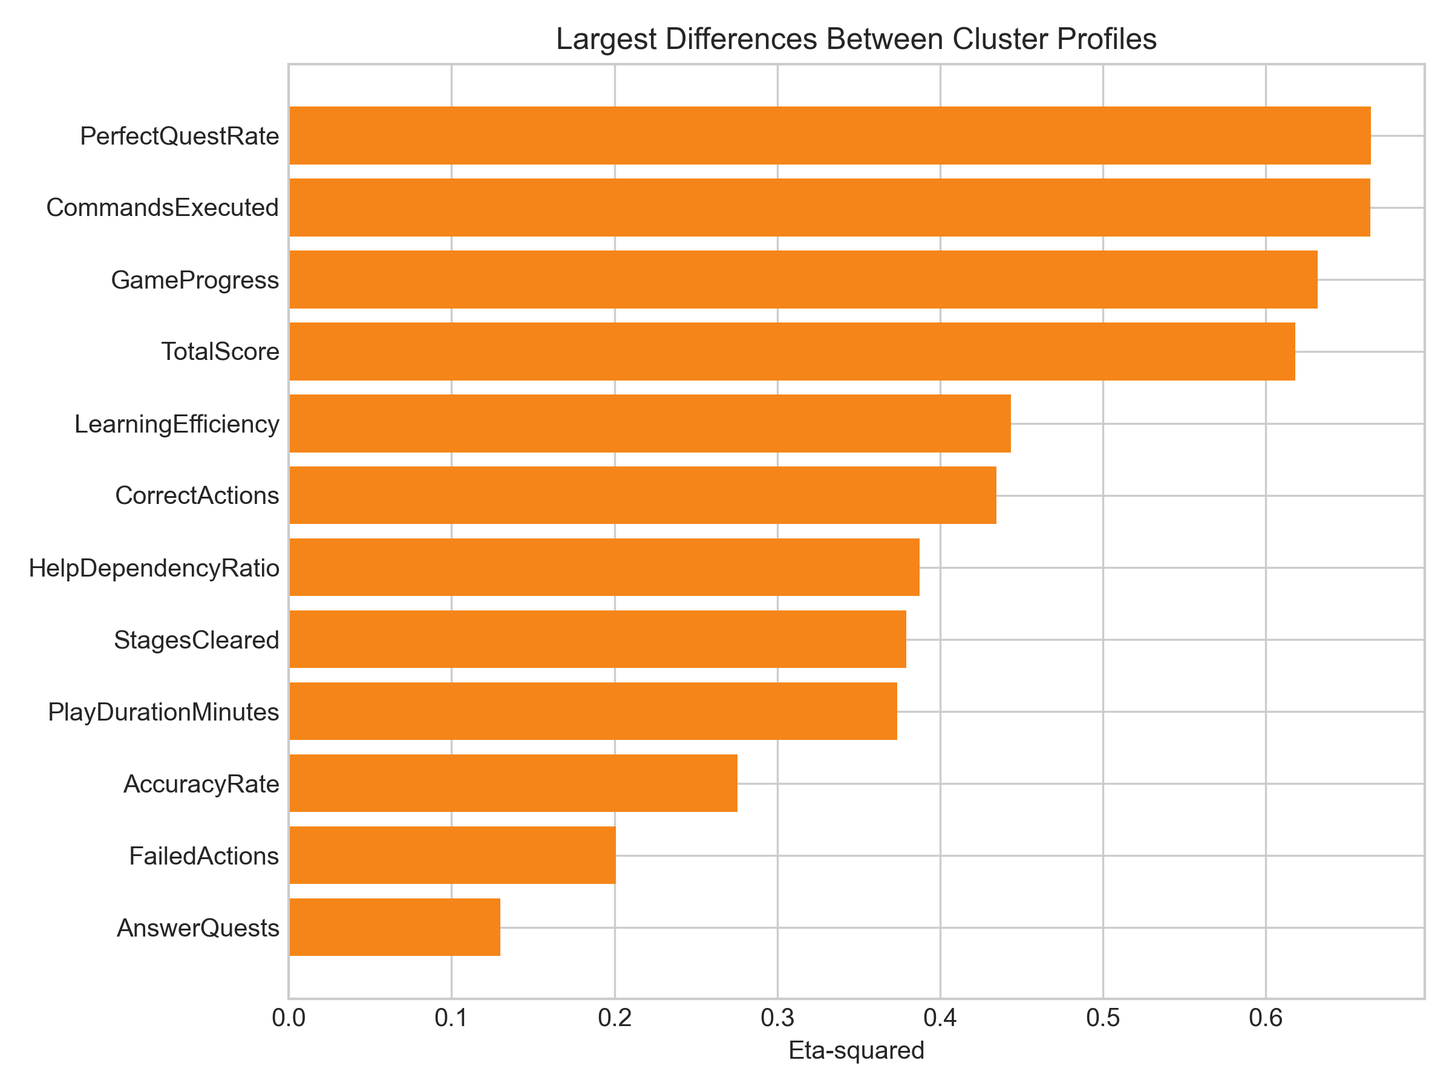
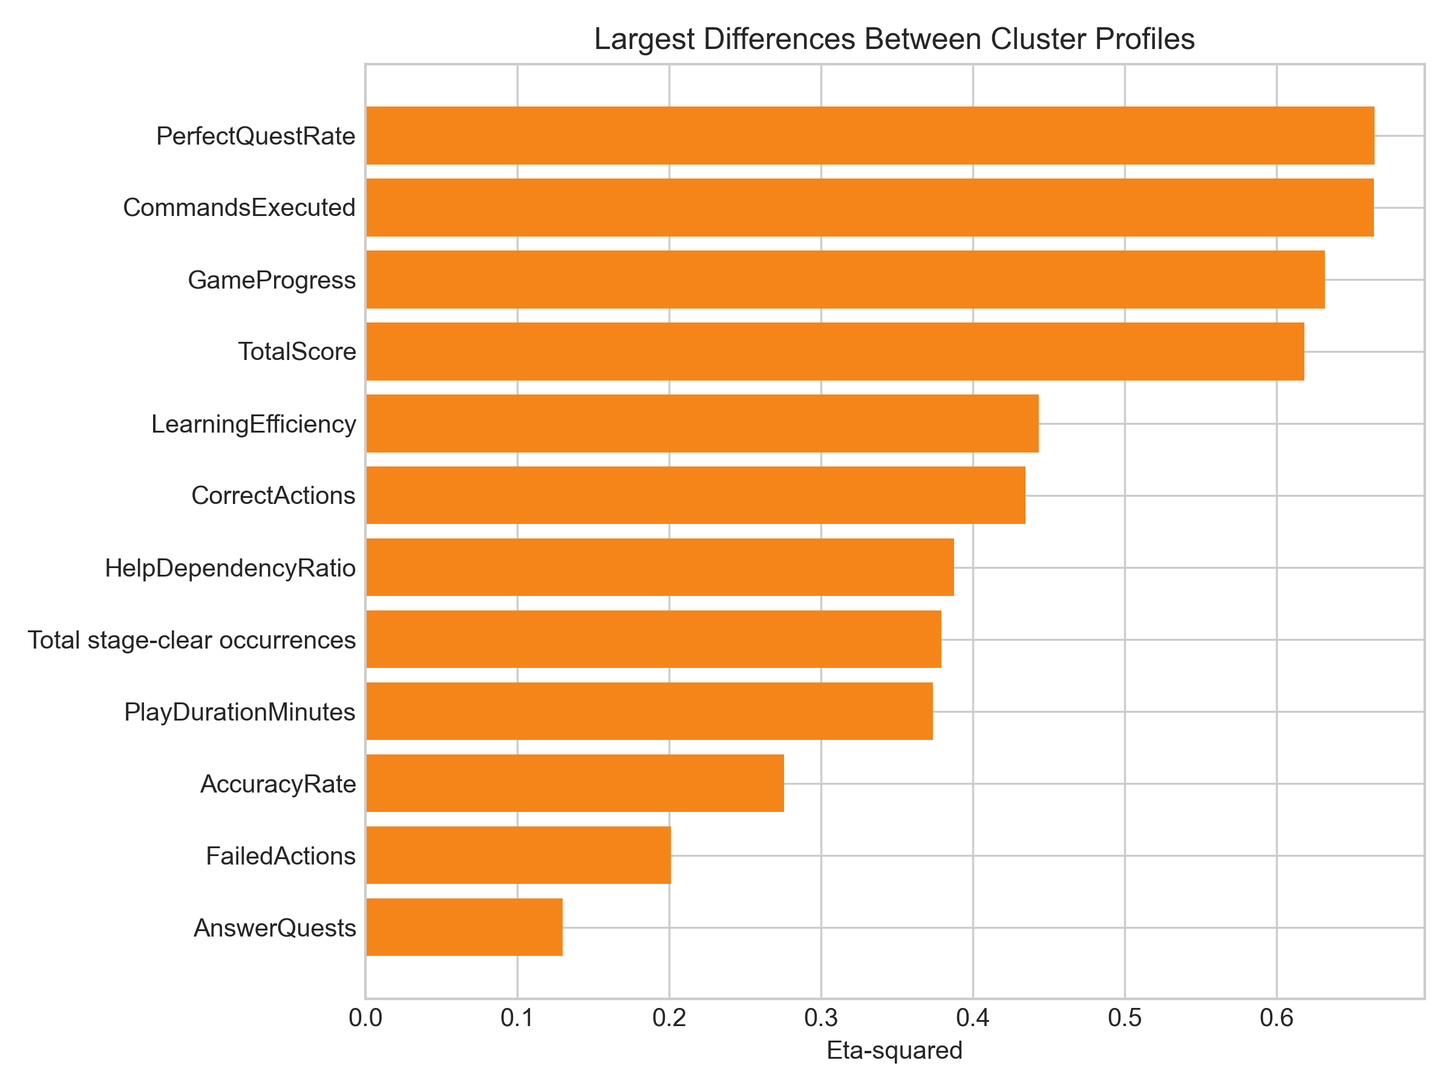
update result of ANCOVA

diff --git a/Extract-Data-Code/cluster_profile_analysis.py b/Extract-Data-Code/cluster_profile_analysis.py
@@ -41,7 +41,7 @@ FEATURES = [
     "HelpDependencyRatio",
 ]
 OUTCOMES = [
-    "StagesCleared", "GameProgress", "TotalScore",
+    "StageClearOccurrences", "GameProgress", "TotalScore",
 ]
 
 FEATURE_DEFINITIONS = {
@@ -58,7 +58,7 @@ FEATURE_DEFINITIONS = {
     "HelpDependencyRatio": "Hint-assisted plus answer-assisted quests divided by completed quests.",
 }
 OUTCOME_DEFINITIONS = {
-    "StagesCleared": "Saved cumulative stage-clear count, including repeat clears; not unique stages.",
+    "StageClearOccurrences": "Total recorded stage-clear occurrences, including repeated clears across saved tutorial/practice entries; not distinct study stages or completion out of 16.",
     "GameProgress": "Cumulative game-progress percentage; used only for profiling.",
     "TotalScore": "Cumulative stage score; used only for profiling.",
 }
@@ -90,7 +90,7 @@ def build_python_feature_table(source):
         "HelpDependencyRatio": safe_ratio(
             number("event_hint_used_quests") + number("event_answer_used_quests"), completed
         ),
-        "StagesCleared": number("record_totalTimesStageClear"),
+        "StageClearOccurrences": number("record_totalTimesStageClear"),
         "GameProgress": number("record_totalGameProgress"),
         "TotalScore": total_score,
     })
@@ -269,10 +269,10 @@ def create_profile_audit(df, feature_names, imputed, labels):
                 rows.append({'ID': row['ID'], 'Cluster': labels[position], 'feature': feature,
                              'issue': 'missing_observation', 'observed_value': row[feature],
                              'clustering_imputed_value': filled.loc[index, feature] if feature in feature_names else np.nan})
-        if row['CommandsExecuted'] == 0 and row['StagesCleared'] > 0:
-            rows.append({'ID': row['ID'], 'Cluster': labels[position], 'feature': 'StagesCleared',
+        if row['CommandsExecuted'] == 0 and row['StageClearOccurrences'] > 0:
+            rows.append({'ID': row['ID'], 'Cluster': labels[position], 'feature': 'StageClearOccurrences',
                          'issue': 'stage_clears_with_zero_saved_commands_review_only',
-                         'observed_value': row['StagesCleared'], 'clustering_imputed_value': np.nan})
+                         'observed_value': row['StageClearOccurrences'], 'clustering_imputed_value': np.nan})
     return pd.DataFrame(rows, columns=['ID', 'Cluster', 'feature', 'issue', 'observed_value', 'clustering_imputed_value'])
 
 
@@ -325,7 +325,8 @@ def create_visualizations(data_dir, validity, selected_k, scaled, labels,
 
     top = comparisons.nlargest(12, "eta_squared").sort_values("eta_squared")
     fig, ax = plt.subplots(figsize=(8, 6))
-    ax.barh(top["feature"], top["eta_squared"], color="#F58518")
+    display_names = top["feature"].replace({"StageClearOccurrences": "Total stage-clear occurrences"})
+    ax.barh(display_names, top["eta_squared"], color="#F58518")
     ax.set(xlabel="Eta-squared", title="Largest Differences Between Cluster Profiles")
     fig.tight_layout(); fig.savefig(data_dir / "figure_cluster_group_effects.png", dpi=300); plt.close(fig)
 

diff --git a/Extract-Data-Code/test_cluster_profile_analysis.py b/Extract-Data-Code/test_cluster_profile_analysis.py
@@ -16,7 +16,7 @@ import cluster_profile_analysis as analysis
 class ClusterAnalysisTests(unittest.TestCase):
     def test_profiles_and_tests_use_observed_values(self):
         frame = pd.DataFrame({'CommandsExecuted': [0., 2., np.nan, 4., 8., 12.],
-                              'StagesCleared': [1., 2., np.nan, 3., 4., 5.],
+                              'StageClearOccurrences': [1., 2., np.nan, 3., 4., 5.],
                               'GameProgress': [1., 2., 3., 4., 5., 6.],
                               'TotalScore': [10., 20., 30., 40., 50., 60.]})
         before = frame.copy(deep=True)
@@ -38,25 +38,25 @@ class ClusterAnalysisTests(unittest.TestCase):
         self.assertEqual(result.n_observed, 5)
         self.assertEqual(result.n_missing, 1)
         self.assertEqual(result.cluster_1_n, 2)
-        self.assertTrue(np.isfinite(tests.set_index('feature').loc['StagesCleared', 'kruskal_p']))
+        self.assertTrue(np.isfinite(tests.set_index('feature').loc['StageClearOccurrences', 'kruskal_p']))
         self.assertAlmostEqual(result.eta_squared, 58.8 / 92.8)
         pd.testing.assert_frame_equal(frame, before)
 
     def test_unavailable_tests_have_explicit_status(self):
         frame = pd.DataFrame({'CommandsExecuted': [np.nan, 1., 2., 3.],
-                              'StagesCleared': [1.] * 4, 'GameProgress': [1.] * 4,
+                              'StageClearOccurrences': [1.] * 4, 'GameProgress': [1.] * 4,
                               'TotalScore': [np.nan] * 4})
         _, _, tests = analysis.profile_clusters(frame, ['CommandsExecuted'],
                                                 np.zeros((4, 1)), np.array([1, 1, 2, 2]))
         tests = tests.set_index('feature')
         self.assertEqual(tests.loc['CommandsExecuted', 'test_status'], 'insufficient_observed_values')
-        self.assertEqual(tests.loc['StagesCleared', 'test_status'], 'constant_indicator')
+        self.assertEqual(tests.loc['StageClearOccurrences', 'test_status'], 'constant_indicator')
         self.assertTrue(tests.anova_p.isna().all())
         self.assertTrue(tests.kruskal_p.isna().all())
 
     def test_welch_marks_zero_variance_group(self):
         frame = pd.DataFrame({'CommandsExecuted': [0., 0., 2., 3.],
-                              'StagesCleared': [1.] * 4, 'GameProgress': [1.] * 4,
+                              'StageClearOccurrences': [1.] * 4, 'GameProgress': [1.] * 4,
                               'TotalScore': [1.] * 4})
         _, _, tests = analysis.profile_clusters(frame, ['CommandsExecuted'],
                                                 np.zeros((4, 1)), np.array([1, 1, 2, 2]))

diff --git a/MD-Document/BEHAVIORAL_FEATURE_EXPLANATION.md b/MD-Document/BEHAVIORAL_FEATURE_EXPLANATION.md
@@ -1,0 +1,118 @@
+# Behavioral Features: Definitions and Interpretation
+
+Updated: 2026-09-23. This reference describes the current extraction and analysis code, including the distinction between Git commands, correct game actions, and stage clears.
+
+## 1. Where the measurements come from
+
+The clustering input is [analysis_per_user_combined.csv](../Analysis-Log-Results/analysis_per_user_combined.csv), with one row per username. Its fields combine two types of measurement:
+
+- **Saved counters (`record_...`):** cumulative values from player-save records. Where both versions contain a player, the extraction uses the Version-2 save rather than adding cumulative snapshots.
+- **Event counts (`event_...`):** counts of matching rows in the combined event logs for that player.
+
+Saved counters and event logs are different sources. Their coverage and definitions should be checked before treating them as interchangeable. The analysis does not require their counts to match.
+
+Implementation references: [per-user extraction](../Extract-Data-Code/extract_per_user_data.py) and [feature construction and analysis](../Extract-Data-Code/cluster_profile_analysis.py).
+
+## 2. Features used to form clusters
+
+All 11 features below enter clustering when they are nonconstant and have available values.
+
+| Code name | Suggested reporting label | Source or calculation | Unit and interpretation |
+|---|---|---|---|
+| `CommandsExecuted` | Saved Git-command count | `record_totalCommandExecuteTimes` | Commands recorded by the saved counter. This is not a count of successful commands and is not calculated by counting `Execute Git Command` events. |
+| `CorrectActions` | Correct game-action events | `event_correct_actions`: number of rows with `eventName == 'Correct Action'` | Events, including tutorial and practice interface actions. Not successful Git commands. |
+| `FailedActions` | Failed game-action events | `event_failed_actions`: number of rows with `eventName == 'Failed Action'` | Events recorded under this label. The analysis does not establish that each event is a failed Git command. |
+| `HintQuests` | Hint-labelled event count | `event_hint_used_quests`: event details containing `Hint` | Matching event rows. Intended to represent hint-associated quest activity; see the extraction qualification below. |
+| `AnswerQuests` | Answer-labelled event count | `event_answer_used_quests`: event details containing `Answer` | Matching event rows. Intended to represent answer-associated quest activity; see the extraction qualification below. |
+| `PlayDurationMinutes` | Saved play duration | `record_totalPlayTime / 60` | Minutes derived from the saved duration. It is not reconstructed from event timestamps, and this analysis does not independently verify idle-time exclusion. |
+| `LeaderboardInteractions` | Global leaderboard-check events | `event_leaderboard_checks`: number of rows with `eventName == 'Check GlobalLeaderBoard'` | Repeated checks count separately. This is not the number of distinct leaderboards or a measure of competitive motivation. |
+| `LearningEfficiency` | Score per recorded play minute | `record_totalStageScore / PlayDurationMinutes` | Score units per minute. A performance-rate proxy, not a direct measurement of learning gain; short recorded durations can produce high values. |
+| `AccuracyRate` | Recorded game-action success proportion | `CorrectActions / (CorrectActions + FailedActions)` | Proportion; multiply by 100 for a percentage. Describes the two logged action categories, not Git-command accuracy. |
+| `PerfectQuestRate` | Perfect-labelled events per quest completion | `event_perfect_quests / event_quests_completed` | Ratio intended to describe perfect quest completion. Its numerator uses the detail-matching rule below. |
+| `HelpDependencyRatio` | Help-labelled events per quest completion | `(HintQuests + AnswerQuests) / event_quests_completed` | Ratio intended to describe help-associated quest activity. It does not establish a user's psychological dependence on help. |
+
+### Qualification for quest-related indicators
+
+The current extractor counts event details containing `Perfect`, `Hint`, or `Answer`. It does **not** additionally restrict these numerator counts to `eventName == 'Complete Quest'`, deduplicate quest IDs, or count distinct quests. The denominator `event_quests_completed` does count rows with `eventName == 'Complete Quest'`.
+
+Consequently, labels such as “hint-assisted quests” or “perfect quest completion rate” require confirmation that those detail strings identify the intended completion events in the logging system. Matching event counts should not automatically be described as unique quest counts. This document records the implemented definitions; it does not change the extraction rules.
+
+## 3. What counts as a correct action?
+
+The inclusion rule is the exact event name `Correct Action`. The analysis does not infer correctness by parsing Git-command output. Examples present in the logs include:
+
+| Logged `eventDetail` | Plain-language description |
+|---|---|
+| `<File/FileFunctionSelection>-<Continue>` | File/function selection recorded as a correct action |
+| `<FileContentWindow/RenameButtonSelection>-<Continue>` | Rename-button selection |
+| `<FileContentWindow/DeleteButtonSelection>-<Continue>` | Delete-button selection |
+| `<FileContentWindow/ModifyButtonSelection>-<Continue>` | Modify-button selection |
+| `<FileContentWindow/AddButtonSelection>-<Continue>` | Add-button selection |
+
+These details occur in tutorial and practice scenes. They are examples from the available logs, not a restriction on which `Correct Action` events the code counts.
+
+**A correct interface action can occur without a Git command.** For example, user `110122073` has six correct-action events in the Game Introduction tutorial, a logged stage completion, and zero saved Git commands. The six actions comprise two file/function selections, two rename selections, one delete selection, and one modify selection.
+
+It is therefore inappropriate to interpret `CorrectActions / CommandsExecuted` as a command-success rate.
+
+## 4. Outcomes used to describe the clusters
+
+| Code name | Suggested reporting label | Source | Interpretation |
+|---|---|---|---|
+| `StageClearOccurrences` | Total recorded stage-clear occurrences | `record_totalTimesStageClear` | Total clear occurrences, including repeat clears. Not distinct stages completed or a completion score out of 16. |
+| `GameProgress` | Saved game-progress percentage | `record_totalGameProgress` | The saved progress value, reported as a percentage by the pipeline. The analysis does not reconstruct the game's progress formula. |
+| `TotalScore` | Saved total stage score | `record_totalStageScore` | Cumulative saved stage score. The analysis does not reconstruct the game's scoring rules. |
+
+These three columns are used for profiling rather than directly included in the clustering feature list. However, `TotalScore` also supplies the numerator of `LearningEfficiency`, so score is not independent of cluster construction.
+
+For manuscript wording, a table with valid n, mean, SD, and median, and the distinction from completion of the 16 study stages, see [paper-ready stage reporting](ANALYSIS_RESULTS_GUIDE.md#paper-ready-reporting-of-stage-completion). The former output name `StagesCleared` has been replaced with `StageClearOccurrences` to make the counting unit explicit.
+
+For `NewPlayer` and `clear`, the saved clear count is 38 each, matching the sum of their extracted per-stage `stageClearTimes`. This supports the extracted count but does not establish whether either account is an eligible study participant. Eligibility must be confirmed from study records rather than inferred from the account name.
+
+## 5. Worked example: Cluster 2
+
+The current Cluster 2 contains 32 users. Its corrected descriptive statistics use observed values:
+
+| Indicator | Observed total | Users with observed values | Missing users | Mean |
+|---|---:|---:|---:|---:|
+| Saved Git commands | 4 | 31 | 1 | 0.1290 |
+| Correct game-action events | 174 | 31 | 1 | 5.6129 |
+| Saved stage clears | 110 | 31 | 1 | 3.5484 |
+
+The users missing a value are not necessarily the same across indicators. In this cluster, `test player` lacks the saved command and stage-clear totals, whereas `Xue` lacks the correct-action count.
+
+All 174 observed correct-action events in this cluster occur in the Game Introduction tutorial:
+
+| Action detail | Events |
+|---|---:|
+| File/function selection | 60 |
+| Rename selection | 58 |
+| Delete selection | 28 |
+| Modify selection | 28 |
+| **Total** | **174** |
+
+The relatively high stage-clear mean is influenced by `NewPlayer` and `clear`, which together contribute 76 of the 110 clear occurrences. The cluster's stage-clear median is 1. Report the distribution and account-review limitations alongside the mean.
+
+Suggested reporting text:
+
+> Cluster 2 comprised 32 users. Among users with available values for each indicator (n=31), mean saved Git-command count was 0.13, mean correct game-action count was 5.61, and mean saved stage-clear count was 3.55. Correct actions in this cluster were tutorial interface events; they were not successful Git commands. Stage-clear counts included repeat completions.
+
+## 6. Missing values and statistical interpretation
+
+- A recorded **zero** is retained as zero. An unavailable value is **missing**, not automatically zero.
+- Ratios with missing or zero denominators are missing.
+- **For clustering:** missing features are median-imputed, non-rate features are log-transformed, and features are standardized.
+- **For descriptive profiles and tests:** only observed values are used, separately for each indicator. Mean, median, standard deviation, and test sample size exclude missing values. The profile table provides total cluster membership, observed counts, and missing counts.
+- **For standardized profiles:** values describe the imputed and transformed representation used to construct clusters, rather than raw observed means.
+
+The former Cluster 2 means of 1.94 commands and 5.77 correct actions included substituted values. They are superseded by the observed means above. Imputation remains part of clustering, not descriptive reporting.
+
+ANOVA, Welch ANOVA, and Kruskal-Wallis compare the **same indicator across clusters**. They do not test whether commands, correct actions, and stage clears have the same numerical value within a cluster. Comparisons of clustering inputs are exploratory because those indicators also helped define the groups. Details on variance checks, unavailable tests, and sample counts are in the [methods guide](PYTHON_ANALYSIS_RESEARCH_GUIDE.md).
+
+## 7. Files to use
+
+- [Observed cluster profiles](../Analysis-Log-Results/analysis_cluster_profiles.csv): means, medians, standard deviations, observed counts, and missing counts.
+- [Group comparisons](../Analysis-Log-Results/analysis_cluster_group_comparisons.csv): observed sample sizes, statistical results, and diagnostic flags.
+- [Profile audit](../Analysis-Log-Results/analysis_cluster_profile_audit.csv): missing observations, clustering-only substitutions, and source-review flags.
+- [Column dictionary](COLUMN_DICTIONARY.md): definitions of output columns.
+- [Current results](ANALYSIS_RESULTS_GUIDE.md): selected K and cluster sizes.

diff --git a/MD-Document/ANALYSIS_RESULTS_GUIDE.md b/MD-Document/ANALYSIS_RESULTS_GUIDE.md
@@ -33,6 +33,32 @@ Both scores agree, so no compromise or tie-break is needed for this dataset. The
 | 2 | 32 |
 | 3 | 15 |
 
+## Paper-ready reporting of stage completion
+
+Use **Total recorded stage-clear occurrences** as the table label for `StageClearOccurrences`. This outcome is the saved cumulative counter `record_totalTimesStageClear`; it includes repeated clears. It is not the number of distinct study stages completed and is not a completion score out of 16.
+
+| Cluster | Cluster membership | Observed n | Missing n | Mean (SD), clear occurrences | Median |
+|---|---:|---:|---:|---:|---:|
+| 1 | 57 | 57 | 0 | 16.23 (9.20) | 16 |
+| 2 | 32 | 31 | 1 | 3.55 (9.23) | 1 |
+| 3 | 15 | 15 | 0 | 1.87 (1.68) | 1 |
+
+**Table note:** Values represent cumulative recorded clear occurrences, including repeated completions. The counter is not restricted by the number of distinct stages. Means and standard deviations use available observations only; SD denotes standard deviation. Cluster 1's mean is 925 clear occurrences / 57 participants = 16.2281, rounded to 16.23.
+
+**Suggested Methods text**
+
+> Total recorded stage-clear occurrences were obtained from each participant's cumulative player-save counter. This measure counts repeated clears and was treated as a measure of completion activity, rather than the number of distinct stages completed. Descriptive statistics used observed values, with valid sample sizes reported for each cluster.
+
+**Suggested Results text**
+
+> Mean total recorded stage-clear occurrences were 16.23 (SD = 9.20; n = 57) in Cluster 1, 3.55 (SD = 9.23; n = 31) in Cluster 2, and 1.87 (SD = 1.68; n = 15) in Cluster 3. These values include repeated stage completions and should not be interpreted as the number of distinct stages completed out of the 16 study stages.
+
+### Distinct-stage completion is a separate, pending measure
+
+The user identifies 16 study stages, while the exports contain 17 named topics (including Game Introduction), each with Tutorial and Practice entries. To report **Distinct study stages completed (0-16)**, first confirm the eligible stage list and whether completion requires Tutorial, Practice, either mode, or both. Then count each eligible stage once per participant using those rules. Do not substitute the existing count of completed saved stage entries, cap the cumulative counter at 16, or divide it by 16 to obtain a completion percentage.
+
+The distinct-stage measure is not yet calculated. The cumulative counter remains explicitly labelled in current tables. Account eligibility and the interpretation limitations below still apply to manuscript use.
+
 ## Output reference
 
 ### Observed profile values
@@ -45,7 +71,7 @@ For Cluster 2 (32 members):
 |---|---:|---:|---:|
 | CommandsExecuted | 0.1290 | 31 | 1 |
 | CorrectActions | 5.6129 | 31 | 1 |
-| StagesCleared | 3.5484 | 31 | 1 |
+| StageClearOccurrences | 3.5484 | 31 | 1 |
 
 Correct actions include tutorial UI interactions. Stage clears include repetitions; they are not constrained to the saved command count. In the extracted data, `NewPlayer` and `clear` each have 38 saved stage clears, matching their per-stage clear totals. These accounts remain included pending confirmation of participant eligibility. The profile audit flags source-review cases without automatically excluding them.
 

diff --git a/MD-Document/COLUMN_DICTIONARY.md b/MD-Document/COLUMN_DICTIONARY.md
@@ -1,5 +1,7 @@
 # Current Column and Feature Dictionary
 
+For source fields, formulas, logging qualifications, and worked examples, see [Behavioral Features: Definitions and Interpretation](BEHAVIORAL_FEATURE_EXPLANATION.md).
+
 The generated sources of truth are:
 
 - `Analysis-Log-Results/analysis_cluster_feature_dictionary.csv`
@@ -22,7 +24,9 @@ The generated sources of truth are:
 | PerfectQuestRate | Perfect / completed quests |
 | HelpDependencyRatio | (Hint + answer quests) / completed quests |
 
-`StagesCleared`, `GameProgress`, and `TotalScore` are reported as profile outcomes. Total score also enters the derived input `LearningEfficiency`, so comparisons of score are not independent of cluster construction.
+`StageClearOccurrences`, `GameProgress`, and `TotalScore` are reported as profile outcomes. Total score also enters the derived input `LearningEfficiency`, so comparisons of score are not independent of cluster construction.
+
+`StageClearOccurrences` replaces the ambiguous former output name `StagesCleared`. Use **Total recorded stage-clear occurrences** in paper tables: repeated clears are included, so the value can exceed 16. This rename changes labels, not values. A distinct-stage completion measure out of 16 requires a confirmed study-stage list and a Tutorial/Practice completion rule; it is not currently exported. See the [paper-ready stage reporting section](ANALYSIS_RESULTS_GUIDE.md#paper-ready-reporting-of-stage-completion).
 
 ## Cluster-selection output
 
@@ -46,7 +50,7 @@ In `analysis_cluster_profiles.csv`, `cluster_n` is total cluster membership. Eac
 
 In `analysis_cluster_group_comparisons.csv`, `n_observed`, `n_missing`, and `cluster_<label>_n` document the observations used. `test_status` is `ok`, `constant_indicator`, or `insufficient_observed_values`. ANOVA and Kruskal-Wallis use those same observed values. `levene_F`/`levene_p` provide a median-centered equal-variance diagnostic; `variance_heterogeneity_flag` is true when its p-value is below 0.05. `kruskal_small_group` flags a group with fewer than five observed values. These flags do not validate inferential assumptions or adjust p-values.
 
-`analysis_cluster_profile_audit.csv` records missing observations, their clustering-only imputed values, and saved counters flagged for manual review. `StagesCleared` counts repeat clears as well as first clears.
+`analysis_cluster_profile_audit.csv` records missing observations, their clustering-only imputed values, and saved counters flagged for manual review. `StageClearOccurrences` counts repeat clears as well as first clears.
 
 `welch_F`, `welch_p`, `welch_df_between`, and `welch_df_within` provide the supplementary Welch ANOVA result and degrees of freedom. `welch_status` identifies unavailable results, including groups with zero sample variance. The ordinary ANOVA columns retain their original meaning; no p-value is silently replaced by another test.
 

diff --git a/MD-Document/PYTHON_ANALYSIS_RESEARCH_GUIDE.md b/MD-Document/PYTHON_ANALYSIS_RESEARCH_GUIDE.md
@@ -1,5 +1,7 @@
 # Behavioral Analysis Methods
 
+See [the feature explanation](BEHAVIORAL_FEATURE_EXPLANATION.md) for the meaning of each indicator and why correct actions can exceed Git commands.
+
 The Python workflow combines Version-1 JSON and Version-2 CSV exports. See [data provenance](DATA_DICTIONARY.md), [column definitions](COLUMN_DICTIONARY.md), and [current results](ANALYSIS_RESULTS_GUIDE.md).
 
 ## Run
